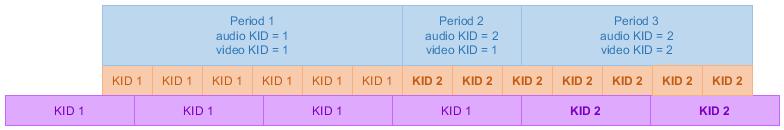
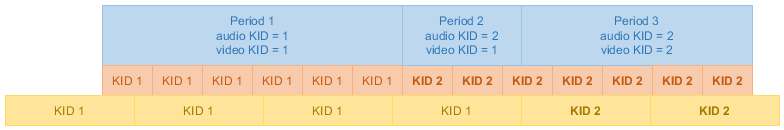
Editorial adjustments

Changed region(s): [[0.0, 0.7077, 1.0, 0.9846], [0.1224, 0.4923, 0.5204, 0.5231]]

diff --git a/DASH-IF-IOP.bs.md b/DASH-IF-IOP.bs.md
@@ -812,7 +812,7 @@ Note: A missing `MPD@minimumUpdatePeriod` attribute indicates an infinite validi
 
 In practice, clients will also require some time to download and process an MPD update - a service SHOULD NOT assume perfect update timing. Conversely, a client SHOULD NOT assume that it can get all updates in time (it may already be attempting to buffer some [=media segments=] that were removed by an MPD update).
 
-In addition to signaling that clients are expected to poll for regular MPD updates, a service MAY publish in-band events to schedule MPD updates at moments of its choosing.
+In addition to signaling that clients are expected to poll for regular MPD updates, a service MAY publish [[#timing-mpd-updates-inband|in-band events to schedule MPD updates]] at moments of its choosing.
 
 #### Adding content to the MPD #### {#timing-mpd-updates-add-content}
 
@@ -877,11 +877,11 @@ An MPD update that removes content MAY be combined [[#timing-mpd-updates-add-con
 
 #### Update signaling via in-band events #### {#timing-mpd-updates-inband}
 
-Services MAY signal the MPD validity duration by embedding in-band messages into [=representations=] instead of specifying a fixed validity duration in the MPD. This allows services to trigger MPD refreshes at exactly the desired time.
+Services MAY signal the MPD validity duration by embedding in-band messages into [=representations=] instead of specifying a fixed validity duration in the MPD. This allows services to trigger MPD refreshes at exactly the desired time and to avoid needless MPD refreshes.
 
-The rest of this chapter only applies to services and clients that make use of in-band MPD validity signaling.
+The rest of this chapter only applies to services and clients that use in-band MPD validity signaling.
 
-Services SHALL define `MPD@minimumUpdatePeriod=0` and add an in-band event stream to every audio [=representation=] or, if no audio [=representations=] are present, to every video [=representation=]. Optionally, the in-band event stream MAY be added to other [=representations=], as well. The in-band event stream SHALL be identical in every [=representation=] where it is present.
+Services SHALL define `MPD@minimumUpdatePeriod=0` and add an in-band event stream to every audio [=representation=] or, if no audio [=representations=] are present, to every video [=representation=]. The in-band event stream MAY also be added to other [=representations=]. The in-band event stream SHALL be identical in every [=representation=] where it is present.
 
 The in-band event stream SHALL be signaled on the [=adaptation set=] level by an `InbandEventStream` element with `@scheme_id_uri="urn:mpeg:dash:event:2012"` and a `@value` of 1 or 3, where:
 
@@ -911,10 +911,6 @@ Multiple [=media segments=] MAY signal the same validity update event (identifie
 Live services can reach a point where no more content will be produced - existing content will be played back by clients and once they reach the end, playback will cease.
 
 Services SHALL define a fixed duration for the last [=period=], remove the `MPD@minimumUpdatePeriod` attribute and cease performing MPD updates to signal that no more content will be added to the MPD. The `MPD@type` MAY be changed to `static` at this point or later if the service is to be converted to a static MPD for on-demand viewing.
-
-## Leap seconds ## {#timing-leapseconds}
-
-This section is intentionally left blank to indicate that the leap seconds topic is out of scope of this proposal.
 
 ## Forbidden techniques ## {#timing-nonos}
 
@@ -1019,7 +1015,7 @@ Issue: What about period connectivity? [#238](https://github.com/Dash-Industry-F
 
 <figure>
 	<img src="Images/Timing/KID change.png" />
-	<figcaption>A change in `default_KID` starts a new [=period=]. Orange indicates audio and purple video [=representation=].</figcaption>
+	<figcaption>A change in `default_KID` starts a new [=period=]. Orange indicates audio and yellow video [=representation=].</figcaption>
 </figure>
 
 The same pattern can also be applied to other changes in [=representation=] configuration.
